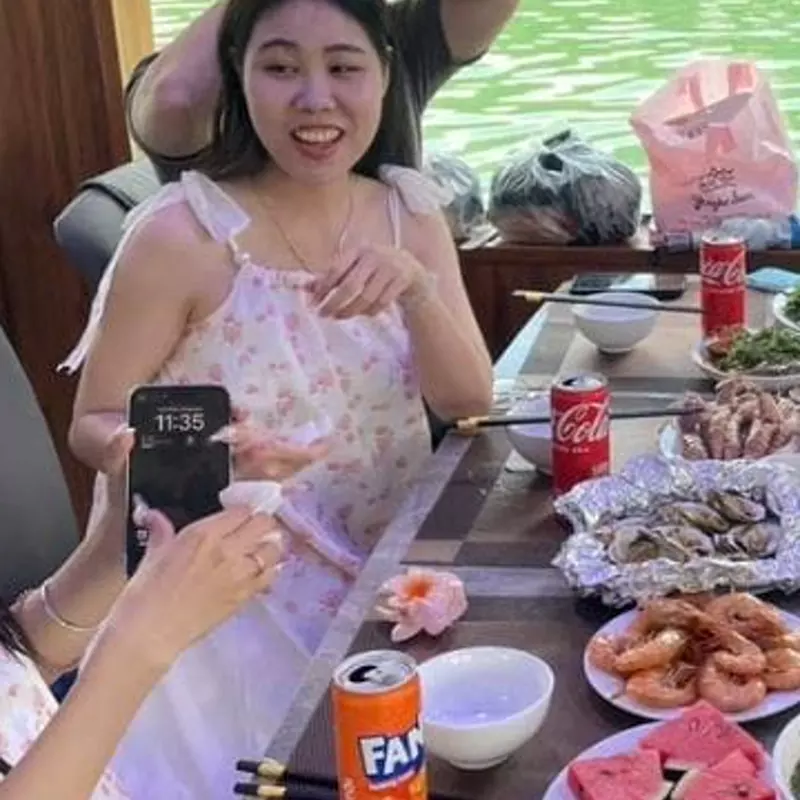
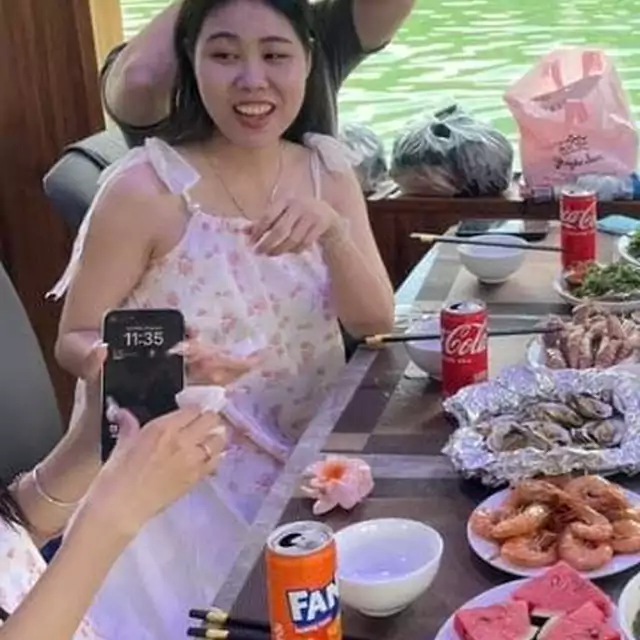
Nén ảnh thẻ đánh giá và chọn đúng cỡ theo màn hình.
WebP 640 và 400 thay cho bản phóng 800, thẻ dùng srcset để máy nhỏ không tải ảnh lớn.

diff --git a/src/components/site/guest-review.tsx b/src/components/site/guest-review.tsx
@@ -1,13 +1,16 @@
 import type { GuestReview } from "@/lib/content";
 
 export function GuestReviewCard({ review }: { review: GuestReview }) {
+  const small = review.image.replace(/\.webp$/, "-400.webp");
   return (
     <article className="overflow-hidden rounded-3xl border bg-card text-center shadow-[var(--shadow-soft)]">
       <img
         src={review.image}
+        srcSet={`${small} 400w, ${review.image} 640w`}
+        sizes="(min-width: 1280px) 220px, (min-width: 1024px) 30vw, (min-width: 640px) 45vw, 92vw"
         alt={review.imageAlt}
-        width={500}
-        height={500}
+        width={640}
+        height={640}
         loading="lazy"
         decoding="async"
         className="aspect-square w-full object-cover"
